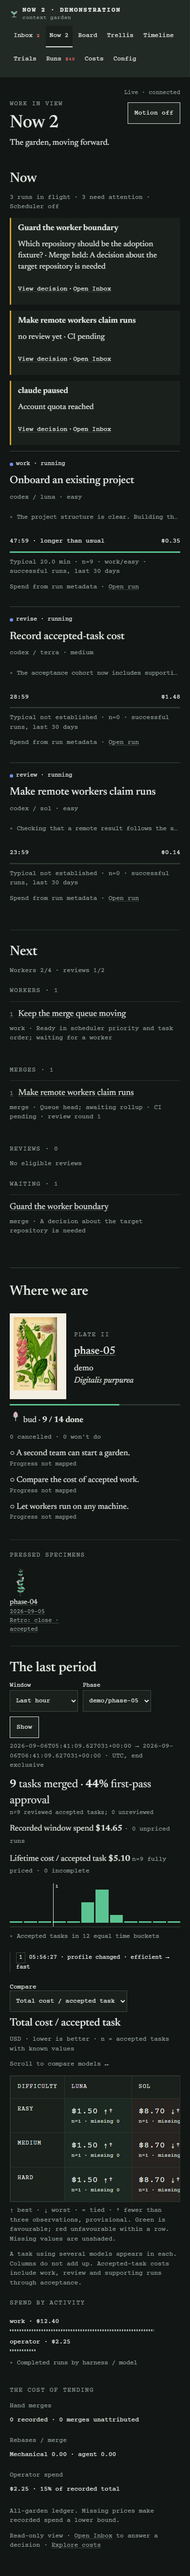
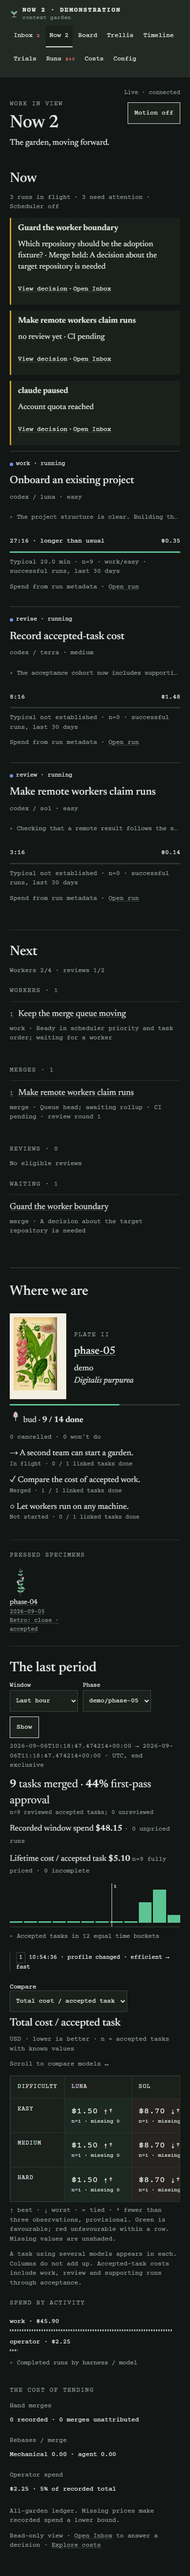
Capture mapped phase goals in Now 2 across widths and themes

Changed region(s): [[0.0615, 0.5621, 0.7077, 0.5933], [0.4308, 0.7182, 0.6154, 0.7494], [0.7385, 0.7182, 0.8923, 0.7494]]

diff --git a/docs/design/now2-live/serve_fixture.py b/docs/design/now2-live/serve_fixture.py
@@ -24,7 +24,7 @@ root.mkdir(parents=True)
 (root / 'demo/product.md').write_text('# Demo\nSynthetic capture fixture.\n')
 phase = root / 'demo/phase-05'
 (phase / 'tasks').mkdir(parents=True)
-(phase / 'goals.md').write_text('---\nplant: foxglove\n---\n# Adoption\n\n## Goals\n\n1. A second team can start a garden.\n2. Compare the cost of accepted work.\n3. Let workers run on any machine.\n')
+(phase / 'goals.md').write_text('---\nplant: foxglove\n---\n# Adoption\n\n## Goals\n\n1. **A second team can start a garden.** DM-1\n2. **Compare the cost of accepted work.** DM-6\n3. **Let workers run on any machine.** DM-5\n')
 closed = root / 'demo/phase-04'
 closed.mkdir()
 (closed / 'goals.md').write_text('---\nplant: pea\nclosed: 2026-09-05\n---\n# Leave the loop running\n')

diff --git a/docs/design/now2-live/README.md b/docs/design/now2-live/README.md
@@ -32,6 +32,14 @@ field; both remain available to CLI callers.
 The phase window retains garden-wide profile, configuration and upgrade marks
 while keeping another phase's activity out of its spend and outcome totals.
 
+Goal marks use explicit task IDs cited in each numbered goal or third-level goal
+heading, including continuation lines. All referenced tasks done means ✓ Merged;
+started or partly completed work means → In flight; linked draft/ready work with
+no dispatch means ○ Not started. Each mark includes the linked done/total count.
+References resolve across the garden so goals can cite prerequisites in other
+phases. Missing references, empty mappings and work set aside never imply a
+completed goal. No title or keyword inference is used.
+
 Unavailable facts stay explicit: unmapped goal progress, insufficient duration
 samples, unreported spend, missing manual-merge attribution, unknown next tick,
 and operator ledger entries without phase attribution. In the phase window,
@@ -56,7 +64,8 @@ uses the same Edge rendering engine as the command-line screenshot recipe and
 supports the entire phone document. Scanned plates are existing repository assets.
 
 The inspected captures show wrapped metadata and attention reasons, visible
-elapsed clocks, independent queue headings, a phase plate and goals, green/red
+elapsed clocks, independent queue headings, a phase plate and all three goal
+marks (in flight, merged and not started) with linked-task counts, green/red
 comparison grounds with n and rank symbols, throughput annotations and operator
 spend. The phone document remains 390 pixels wide; only the model comparison
 scrolls. Inspection prompted combining a held reason with its existing task
